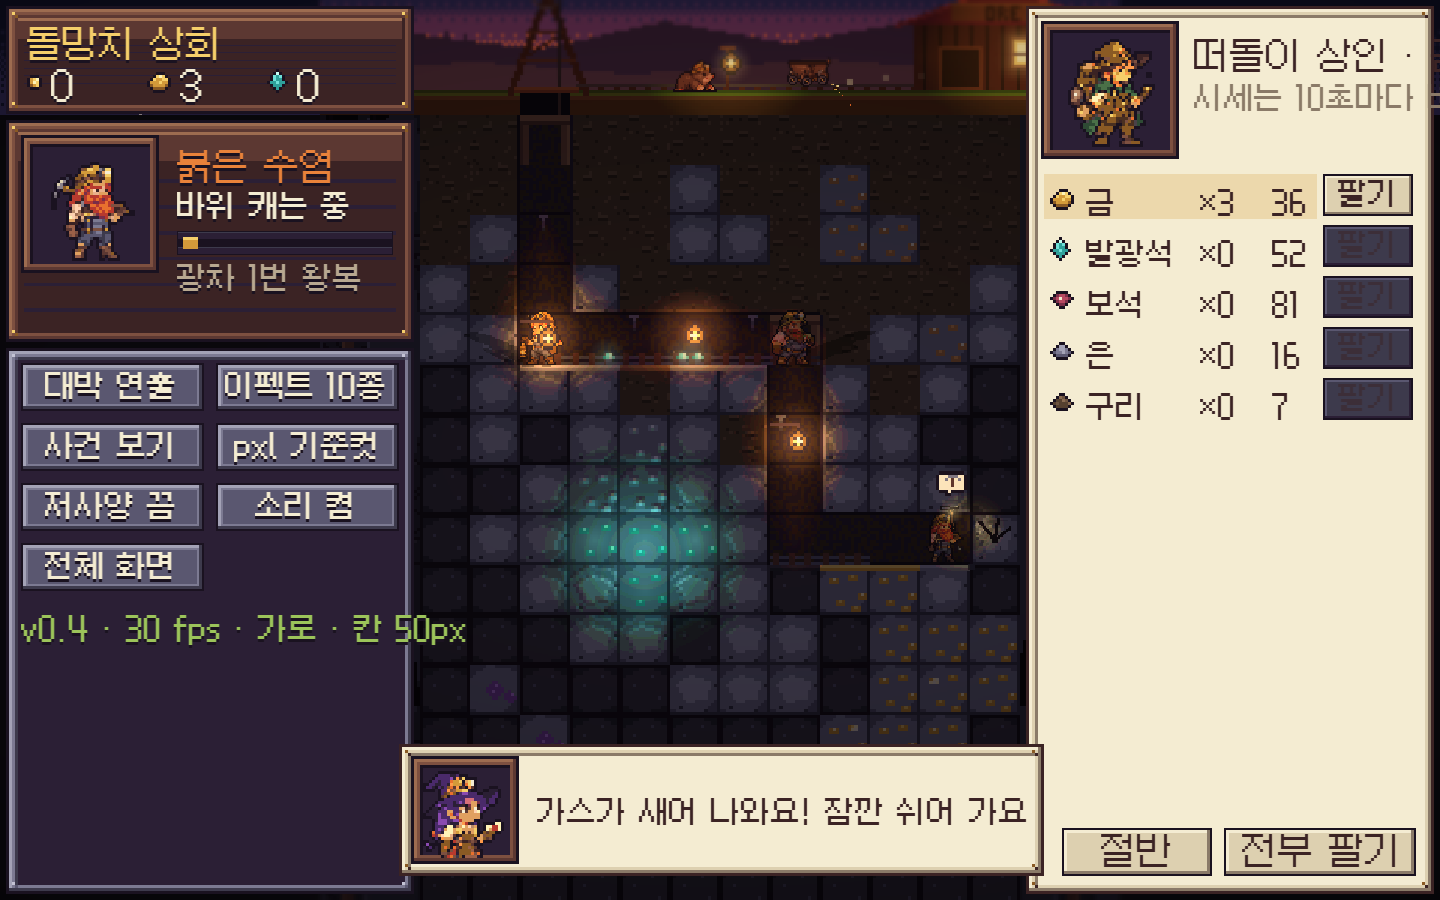
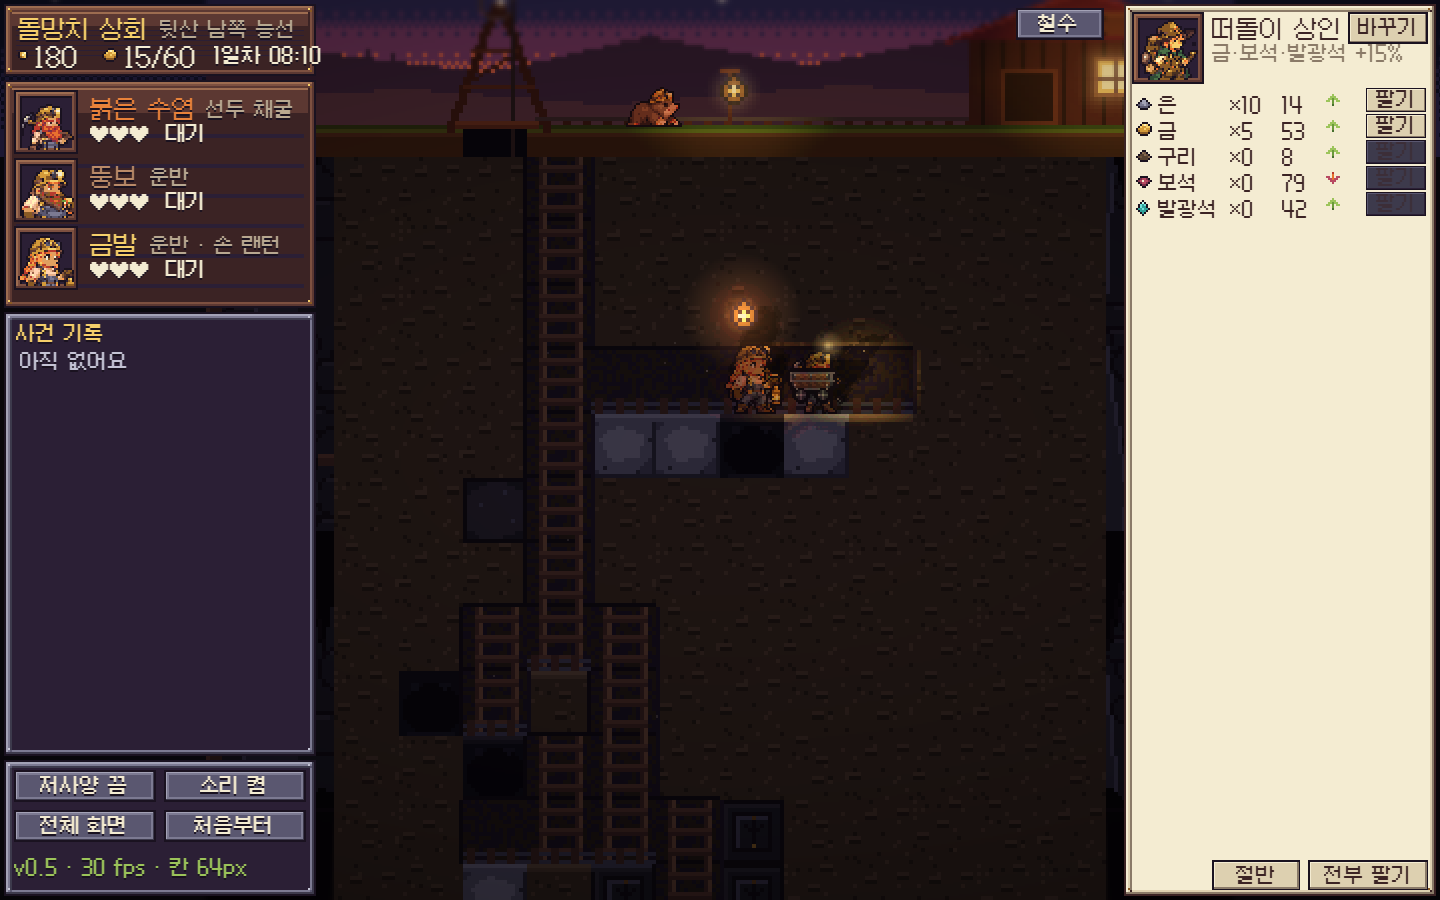
v0.5 8단계: README(한 라운드 표 · 화면 3장 · 구조) · 스크린샷(세로 폰·패드·PC) · HUD·판매 창 폭 다듬기

diff --git a/src/main.js b/src/main.js
@@ -780,7 +780,7 @@ function buildUI() {
 function makeHud(w, h) {
   const c = new Container();
   c.addChild(frame('wood', w, h));
-  const wide = w >= 240;
+  const wide = w >= 320;
   const t1 = label('돌망치 상회', { color: COLOR.gold }); t1.position.set(7, 4);
   c.addChild(t1);
   const sub = S.round?.card?.name ?? '오늘의 경매';
@@ -980,7 +980,7 @@ function makeSell(w, h) {
     const bg = new Graphics(); r.addChild(bg);
     const ic = icon(tex(ICON[o.key])); ic.position.set(2, Math.round((13 - ic.height) / 2) + 1); r.addChild(ic);
     let x = 13;
-    const nmw = rowW > 150 ? 36 : 0;
+    const nmw = rowW > 140 ? 36 : 0;
     if (nmw) { const t = label(o.name, { color: COLOR.paperInk, shadow: false, small: true }); t.position.set(x, 2); r.addChild(t); x += nmw; }
     const qty = label('×0', { color: COLOR.paperInk, shadow: false, small: true }); qty.position.set(x, 2); r.addChild(qty); x += 26;
     const price = label('0', { color: COLOR.paperInk, shadow: false, small: true }); price.position.set(x, 2); r.addChild(price); x += 22;
@@ -1929,7 +1929,7 @@ const flick = (t, seed) => 0.55 * Math.sin(t * 9 + seed) + 0.3 * Math.sin(t * 23
 app.ticker.add((tk) => {
   const real = Math.min(tk.deltaMS / 1000, 0.05);
   fpsT += real; fpsN++;
-  if (fpsT >= 0.5) { if (ui.fps) ui.fps.text = `${VERSION} · ${Math.round(fpsN / fpsT)} fps · ${L.portrait ? '세로' : '가로'} · 칸 ${Math.round(L.cell)}px · ${state()}`; fpsT = 0; fpsN = 0; }
+  if (fpsT >= 0.5) { if (ui.fps) ui.fps.text = `${VERSION} · ${Math.round(fpsN / fpsT)} fps · 칸 ${Math.round(L.cell)}px`; fpsT = 0; fpsN = 0; }
 
   let dt = real;
   if (hitstop > 0) { hitstop -= real; dt = 0; }
